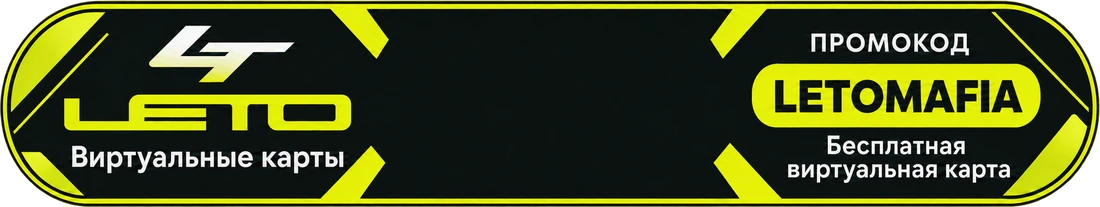
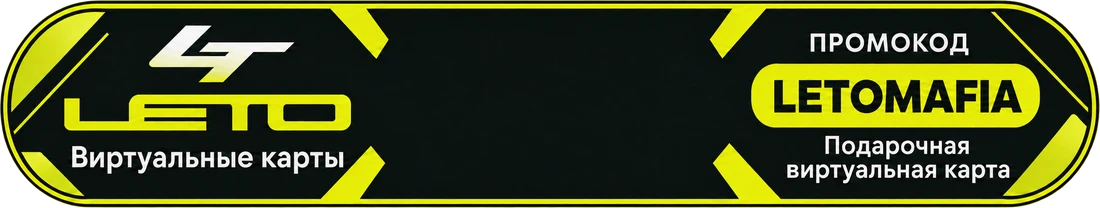
LETO: «подарочная» карта; отметки оплаты видят только ведущие

diff --git a/index.html b/index.html
@@ -991,7 +991,7 @@ a.pill { text-decoration: none; box-sizing: border-box; }
 <script>
 (() => {
   const KEY = "dachaMafia.v1";
-  const BUILD = "20261023135017"; // set on every commit by .githooks/pre-commit
+  const BUILD = "20261023135445"; // set on every commit by .githooks/pre-commit
   const SB_URL = "https://uiaxlwlllrbulirhtdlo.supabase.co";
   const SB_KEY = "sb_publishable_5KvuUsrQBMTHYfwibw0Dxg_n645biRf";
   const sb = window.supabase ? window.supabase.createClient(SB_URL, SB_KEY, { auth: { persistSession: true, autoRefreshToken: true, storageKey: "dachaMafia.auth" } }) : null;
@@ -1159,8 +1159,8 @@ a.pill { text-decoration: none; box-sizing: border-box; }
     { id: "feniks", img: "ads/feniks.webp", ratio: "1100 / 393", url: "https://t.me/fenikss24?text=" + AD_TEXT,
       alt: "Feniks — обмен валюты. Написать @fenikss24", label: "Feniks, обмен валюты",
       vars: "--bill-x:69%;--bill-y:62%;--tag-y:33%;--tag-r:auto;--tag-l:13%" },
-    { id: "leto", img: "ads/leto-2.webp", ratio: "1100 / 207", card: "ads/leto-card.webp", url: "https://t.me/leto_finance_bot?startapp=ref_SKY-WS5WDXN4",
-      alt: "LETO — виртуальные карты, промокод LETOMAFIA: бесплатная виртуальная карта", label: "LETO, виртуальные карты",
+    { id: "leto", img: "ads/leto-3.webp", ratio: "1100 / 208", card: "ads/leto-card.webp", url: "https://t.me/leto_finance_bot?startapp=ref_SKY-WS5WDXN4",
+      alt: "LETO — виртуальные карты, промокод LETOMAFIA: подарочная виртуальная карта", label: "LETO, виртуальные карты",
       vars: "--tag-y:-17%;--tag-r:auto;--tag-l:9%" },
   ];
   // share of impressions: a third each
@@ -1925,7 +1925,7 @@ a.pill { text-decoration: none; box-sizing: border-box; }
     ? e.hosts.map((x) => `<span class="ev-who ${x.user_id === me.id ? "me" : ""}">${avaP(x.profiles || {})}<span>${esc(x.profiles?.nick || "Ведущий")}</span></span>`).join("")
     : `<span class="ev-empty">ещё не отметился</span>`}</div>`;
   // green chip: paid (host confirmed) or claimed (said "я перевёл")
-  const paidOf = (e, uid) => ev.paid?.[e.id + ":" + uid] || "";
+  const paidOf = (e, uid) => (canHost() && ev.paid?.[e.id + ":" + uid]) || "";
   const whoChip = (e, x) => `<span class="ev-who ${x.user_id === me.id ? "me" : ""} ${paidOf(e, x.user_id)}" title="${paidOf(e, x.user_id) === "paid" ? "оплатил" : paidOf(e, x.user_id) === "claimed" ? "перевёл, ждёт подтверждения" : ""}">${avaP(x.profiles || {})}<span>${esc(x.profiles?.nick || "Дачник")}</span></span>`;
   const paidCount = (e) => e.signups.filter((x) => paidOf(e, x.user_id)).length;
   const payOf = (eid, uid) => ev.pays[eid + ":" + uid];
